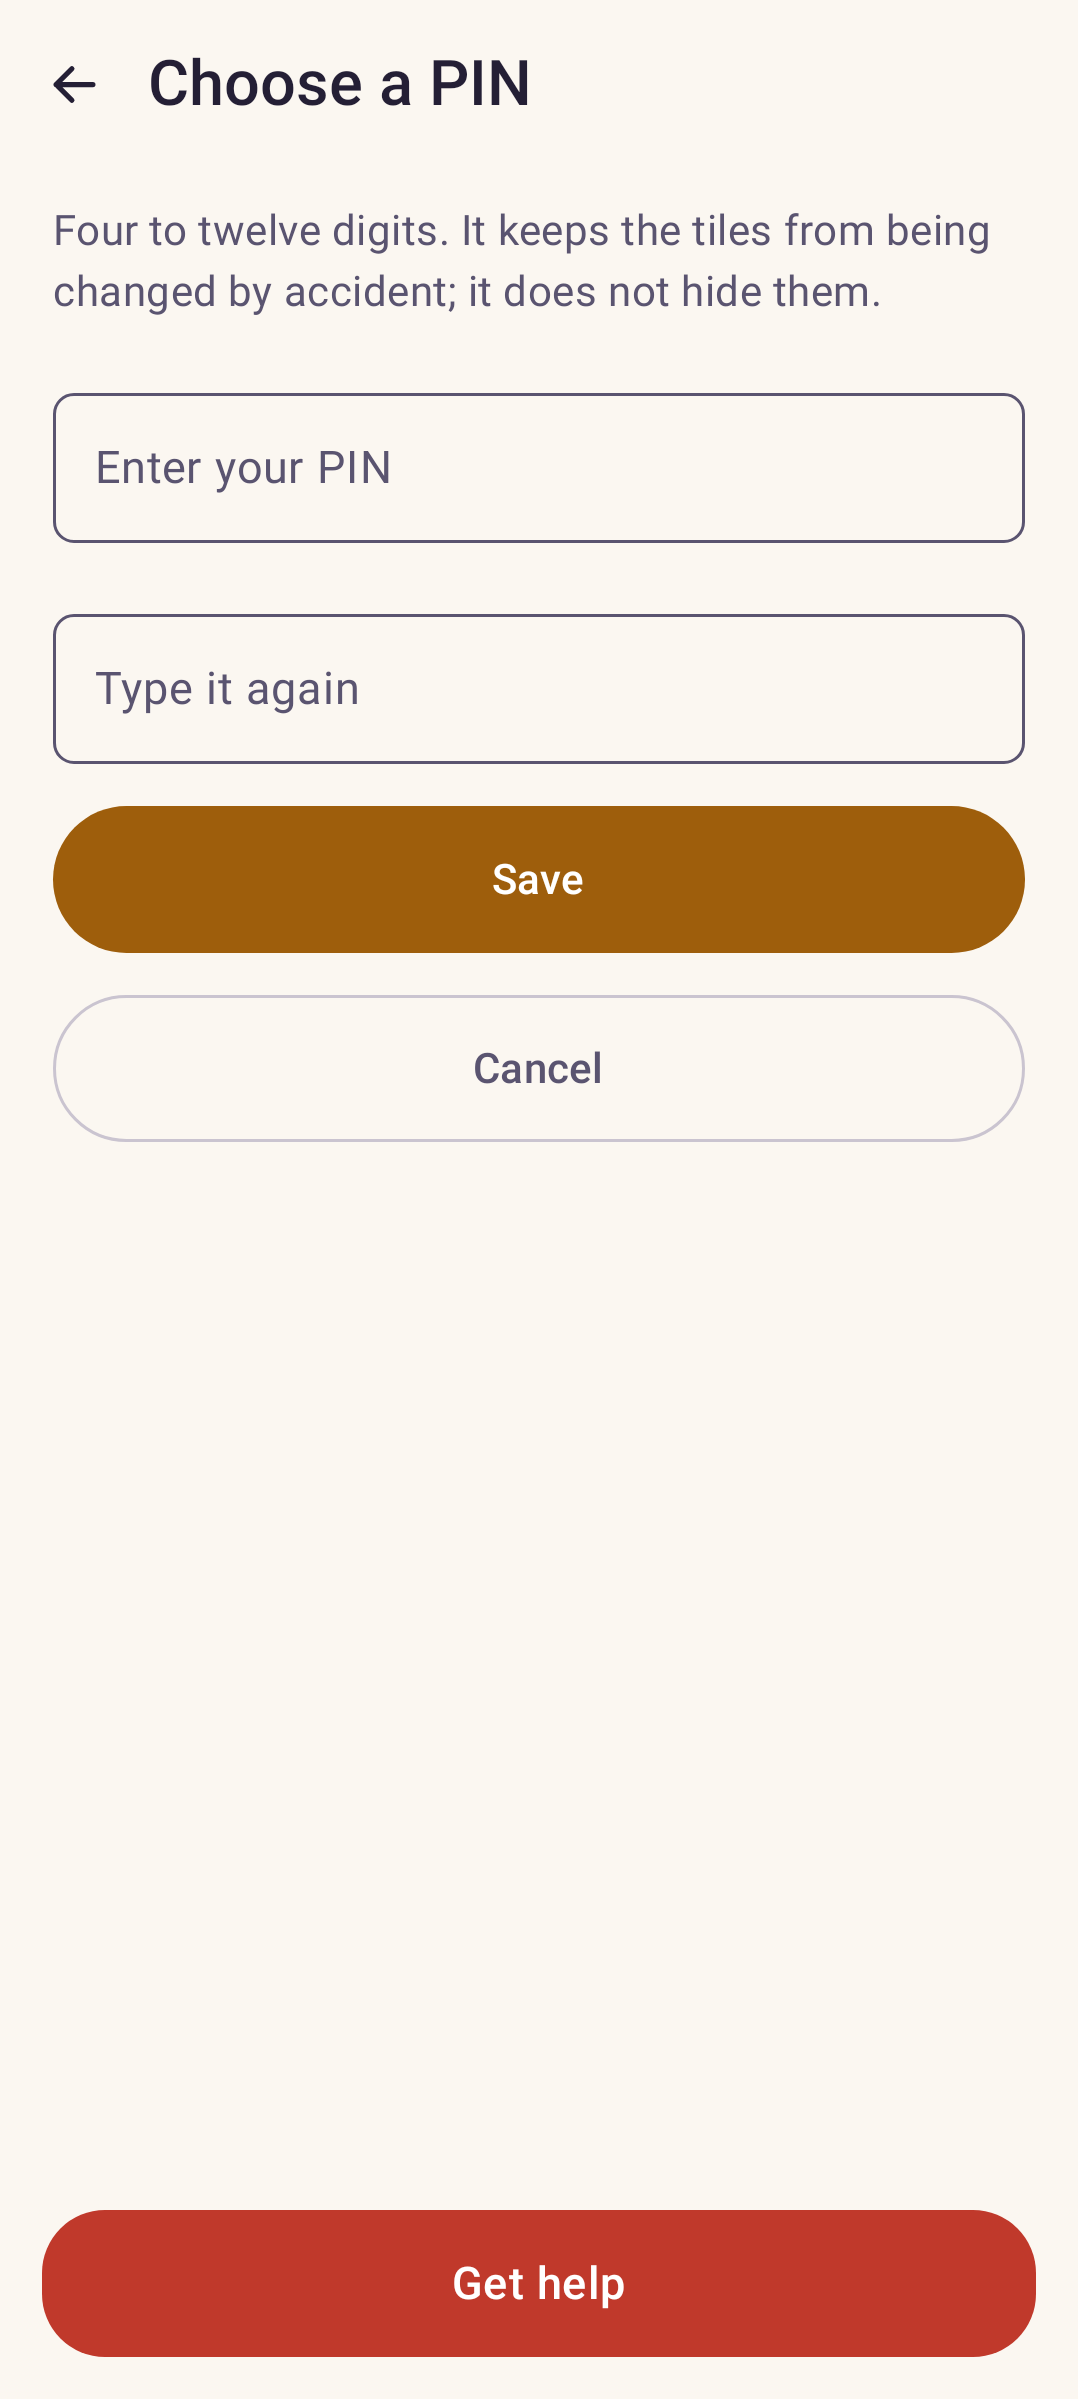
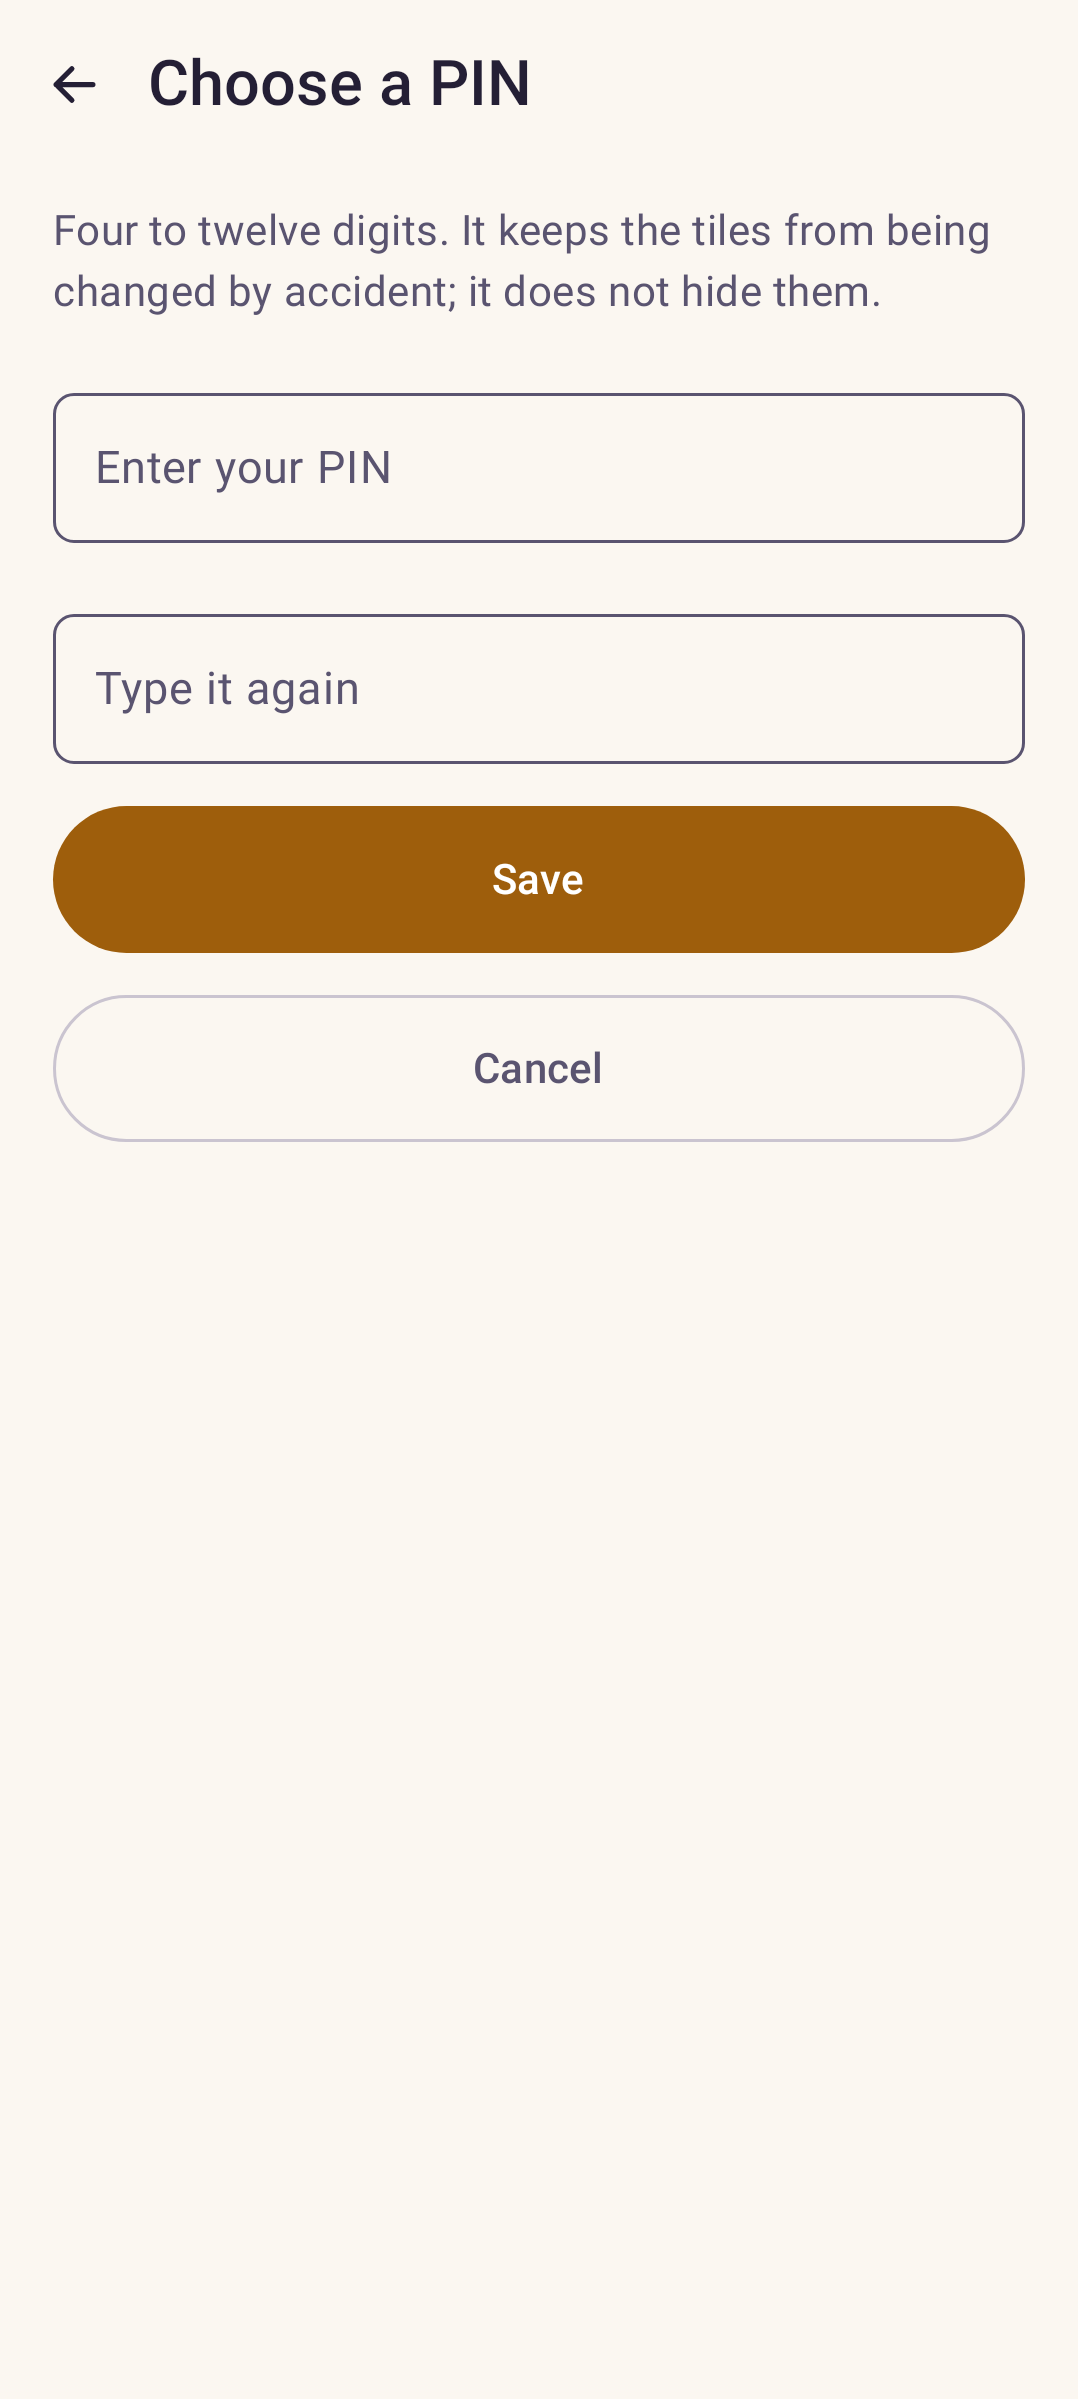
fix(ui): no help bar on the screens only a parent sees
Backup and transfer, the tile editor, rearranging, unlocking parent view and
choosing a PIN all carried the red bar. Settings and the activity log had already
lost it for the reason that applies to all seven: they are places a parent goes
on purpose, usually with the child not in the room, and "Get help" under a form
spends the one colour in the product that is allowed to mean "now" on a moment
that is not one.

In the editor it was worse than dilution. The bar sits exactly where a thumb
reaches for Save, and what it does is leave the screen.

What keeps it is what a caregiver actually reads: the start screen, every tile
type, and the help sheet itself.

Changed region(s): [[0.0306, 0.8945, 0.9796, 0.9871]]

diff --git a/app/src/testDebug/kotlin/app/larova/screenshot/ScreensScreenshotTest.kt b/app/src/testDebug/kotlin/app/larova/screenshot/ScreensScreenshotTest.kt
@@ -74,7 +74,6 @@ abstract class ScreensScreenshotTest : ScreenshotTest() {
                 onMoveUp = {},
                 onMoveDown = {},
                 onBack = {},
-                onHelp = {},
             )
         }
     }
@@ -203,7 +202,6 @@ abstract class ScreensScreenshotTest : ScreenshotTest() {
                 onUseBiometrics = null,
                 wrongPin = false,
                 onBack = {},
-                onHelp = {},
             )
         }
     }
@@ -218,7 +216,6 @@ abstract class ScreensScreenshotTest : ScreenshotTest() {
                 onUseBiometrics = null,
                 wrongPin = true,
                 onBack = {},
-                onHelp = {},
             )
         }
     }
@@ -239,7 +236,6 @@ abstract class ScreensScreenshotTest : ScreenshotTest() {
                 onSave = {},
                 error = null,
                 onBack = {},
-                onHelp = {},
             )
         }
     }
@@ -264,7 +260,6 @@ abstract class ScreensScreenshotTest : ScreenshotTest() {
                 ),
                 callbacks = noOpEditCallbacks(),
                 onBack = {},
-                onHelp = {},
             )
         }
     }
@@ -277,7 +272,6 @@ abstract class ScreensScreenshotTest : ScreenshotTest() {
                 state = EditUiState(isNew = true),
                 callbacks = noOpEditCallbacks(),
                 onBack = {},
-                onHelp = {},
             )
         }
     }
@@ -309,7 +303,6 @@ abstract class ScreensScreenshotTest : ScreenshotTest() {
             onConfirmImport = {},
             onCancelImport = {},
             onBack = {},
-            onHelp = {},
         )
     }
 

diff --git a/core/ui/src/commonMain/kotlin/app/larova/core/ui/component/LarovaScaffold.kt b/core/ui/src/commonMain/kotlin/app/larova/core/ui/component/LarovaScaffold.kt
@@ -29,10 +29,13 @@ import org.jetbrains.compose.resources.stringResource
  * on every screen because someone who needs it will not be on the screen that happened to include
  * it (docs/concept.md §4.3).
  *
- * Two screens pass `onHelp = null` and have no bar: settings and the activity log. Neither is a
- * screen a caregiver is on while something is going wrong — they are places a parent goes on
- * purpose, and a red emergency bar under a list of preferences dilutes the one colour in the
- * product that is allowed to mean "now". Everything a caregiver actually reads keeps it.
+ * The screens that pass `onHelp = null` have no bar, and they are all of a kind: settings, the
+ * activity log, backup and transfer, the tile editor, rearranging, unlocking parent view and
+ * choosing a PIN. None of them is a screen a caregiver is on while something is going wrong —
+ * every one is a place a parent goes on purpose, usually with the child not in the room. A red
+ * emergency bar under a form dilutes the one colour in the product that is allowed to mean "now",
+ * and it puts a way out of the editor where a thumb reaches for Save. Everything a caregiver
+ * actually reads — the grid, every tile type, the help sheet — keeps it.
  *
  * The frame is also where the app stops being a phone app. On anything wider than a phone the
  * content is capped at [contentWidth] and centred, and the help bar is capped and centred with it

diff --git a/feature/settings/src/commonMain/kotlin/app/larova/feature/settings/ParentViewScreens.kt b/feature/settings/src/commonMain/kotlin/app/larova/feature/settings/ParentViewScreens.kt
@@ -65,7 +65,6 @@ fun UnlockScreen(
     onUseBiometrics: (() -> Unit)?,
     wrongPin: Boolean,
     onBack: () -> Unit,
-    onHelp: () -> Unit,
     modifier: Modifier = Modifier,
 ) {
     // Survives a rotation, so turning the phone while the prompt is up does not open a second one.
@@ -80,7 +79,9 @@ fun UnlockScreen(
 
     LarovaScaffold(
         title = stringResource(Res.string.view_unlock_title),
-        onHelp = onHelp,
+        // No help bar. This is parent-view work, opened on purpose, and the red bar is for
+        // the moment something is wrong while a child is here.
+        onHelp = null,
         onBack = onBack,
         modifier = modifier,
     ) { insets ->
@@ -152,12 +153,13 @@ fun PinSetupScreen(
     onSave: () -> Unit,
     error: PinError?,
     onBack: () -> Unit,
-    onHelp: () -> Unit,
     modifier: Modifier = Modifier,
 ) {
     LarovaScaffold(
         title = stringResource(Res.string.view_pin_create_title),
-        onHelp = onHelp,
+        // No help bar. This is parent-view work, opened on purpose, and the red bar is for
+        // the moment something is wrong while a child is here.
+        onHelp = null,
         onBack = onBack,
         modifier = modifier,
     ) { insets ->

diff --git a/app/src/main/kotlin/app/larova/navigation/LarovaNavHost.kt b/app/src/main/kotlin/app/larova/navigation/LarovaNavHost.kt
@@ -171,7 +171,6 @@ fun LarovaNavHost(
                     requestMicrophone = requestMicrophone,
                 ),
                 onBack = goBack,
-                onHelp = openHelp,
             )
         }
 
@@ -187,7 +186,6 @@ fun LarovaNavHost(
                 onMoveUp = viewModel::onMoveUp,
                 onMoveDown = viewModel::onMoveDown,
                 onBack = goBack,
-                onHelp = openHelp,
             )
         }
 
@@ -215,7 +213,6 @@ fun LarovaNavHost(
                 onUseBiometrics = rememberBiometricUnlock(onAccepted = viewModel::onBiometricsAccepted),
                 wrongPin = state.wrongPin,
                 onBack = goBack,
-                onHelp = openHelp,
             )
         }
 
@@ -235,7 +232,6 @@ fun LarovaNavHost(
                 onSave = viewModel::onSave,
                 error = state.error,
                 onBack = goBack,
-                onHelp = openHelp,
             )
         }
 
@@ -272,7 +268,6 @@ fun LarovaNavHost(
                 onConfirmImport = viewModel::onConfirmImport,
                 onCancelImport = viewModel::onCancelImport,
                 onBack = goBack,
-                onHelp = openHelp,
             )
         }
 

diff --git a/feature/card/src/commonMain/kotlin/app/larova/feature/card/edit/EditCardScreen.kt b/feature/card/src/commonMain/kotlin/app/larova/feature/card/edit/EditCardScreen.kt
@@ -136,14 +136,15 @@ fun EditCardScreen(
     state: EditUiState,
     callbacks: EditCardCallbacks,
     onBack: () -> Unit,
-    onHelp: () -> Unit,
     modifier: Modifier = Modifier,
 ) {
     var confirmingDelete by remember { mutableStateOf(false) }
 
     LarovaScaffold(
         title = stringResource(if (state.isNew) Res.string.edit_new_tile else Res.string.edit_edit_tile),
-        onHelp = onHelp,
+        // No help bar. This is parent-view work, opened on purpose, and the red bar is for
+        // the moment something is wrong while a child is here.
+        onHelp = null,
         onBack = onBack,
         modifier = modifier,
     ) { insets ->

diff --git a/feature/transfer/src/commonMain/kotlin/app/larova/feature/transfer/TransferScreen.kt b/feature/transfer/src/commonMain/kotlin/app/larova/feature/transfer/TransferScreen.kt
@@ -67,12 +67,13 @@ fun TransferScreen(
     onConfirmImport: (ImportMode) -> Unit,
     onCancelImport: () -> Unit,
     onBack: () -> Unit,
-    onHelp: () -> Unit,
     modifier: Modifier = Modifier,
 ) {
     LarovaScaffold(
         title = stringResource(Res.string.transfer_title),
-        onHelp = onHelp,
+        // No help bar. This is parent-view work, opened on purpose, and the red bar is for
+        // the moment something is wrong while a child is here.
+        onHelp = null,
         onBack = onBack,
         modifier = modifier,
     ) { insets ->

diff --git a/feature/home/src/commonMain/kotlin/app/larova/feature/home/ArrangeTilesScreen.kt b/feature/home/src/commonMain/kotlin/app/larova/feature/home/ArrangeTilesScreen.kt
@@ -51,12 +51,13 @@ fun ArrangeTilesScreen(
     onMoveUp: (Int) -> Unit,
     onMoveDown: (Int) -> Unit,
     onBack: () -> Unit,
-    onHelp: () -> Unit,
     modifier: Modifier = Modifier,
 ) {
     LarovaScaffold(
         title = stringResource(Res.string.arrange_title),
-        onHelp = onHelp,
+        // No help bar. This is parent-view work, opened on purpose, and the red bar is for
+        // the moment something is wrong while a child is here.
+        onHelp = null,
         onBack = onBack,
         modifier = modifier,
     ) { insets ->

diff --git a/CHANGELOG.md b/CHANGELOG.md
@@ -12,6 +12,11 @@ docs-only changes do not belong here.
 
 ## [Unreleased]
 
+### Fixed
+- The red "Get help" bar no longer appears on the screens only a parent sees: backup and transfer,
+  the tile editor, rearranging, unlocking parent view and choosing a PIN. It stays where a
+  caregiver reads — the start screen, every tile, and the help sheet itself.
+
 ## [0.3.0] - 2026-08-29
 
 ### Added
